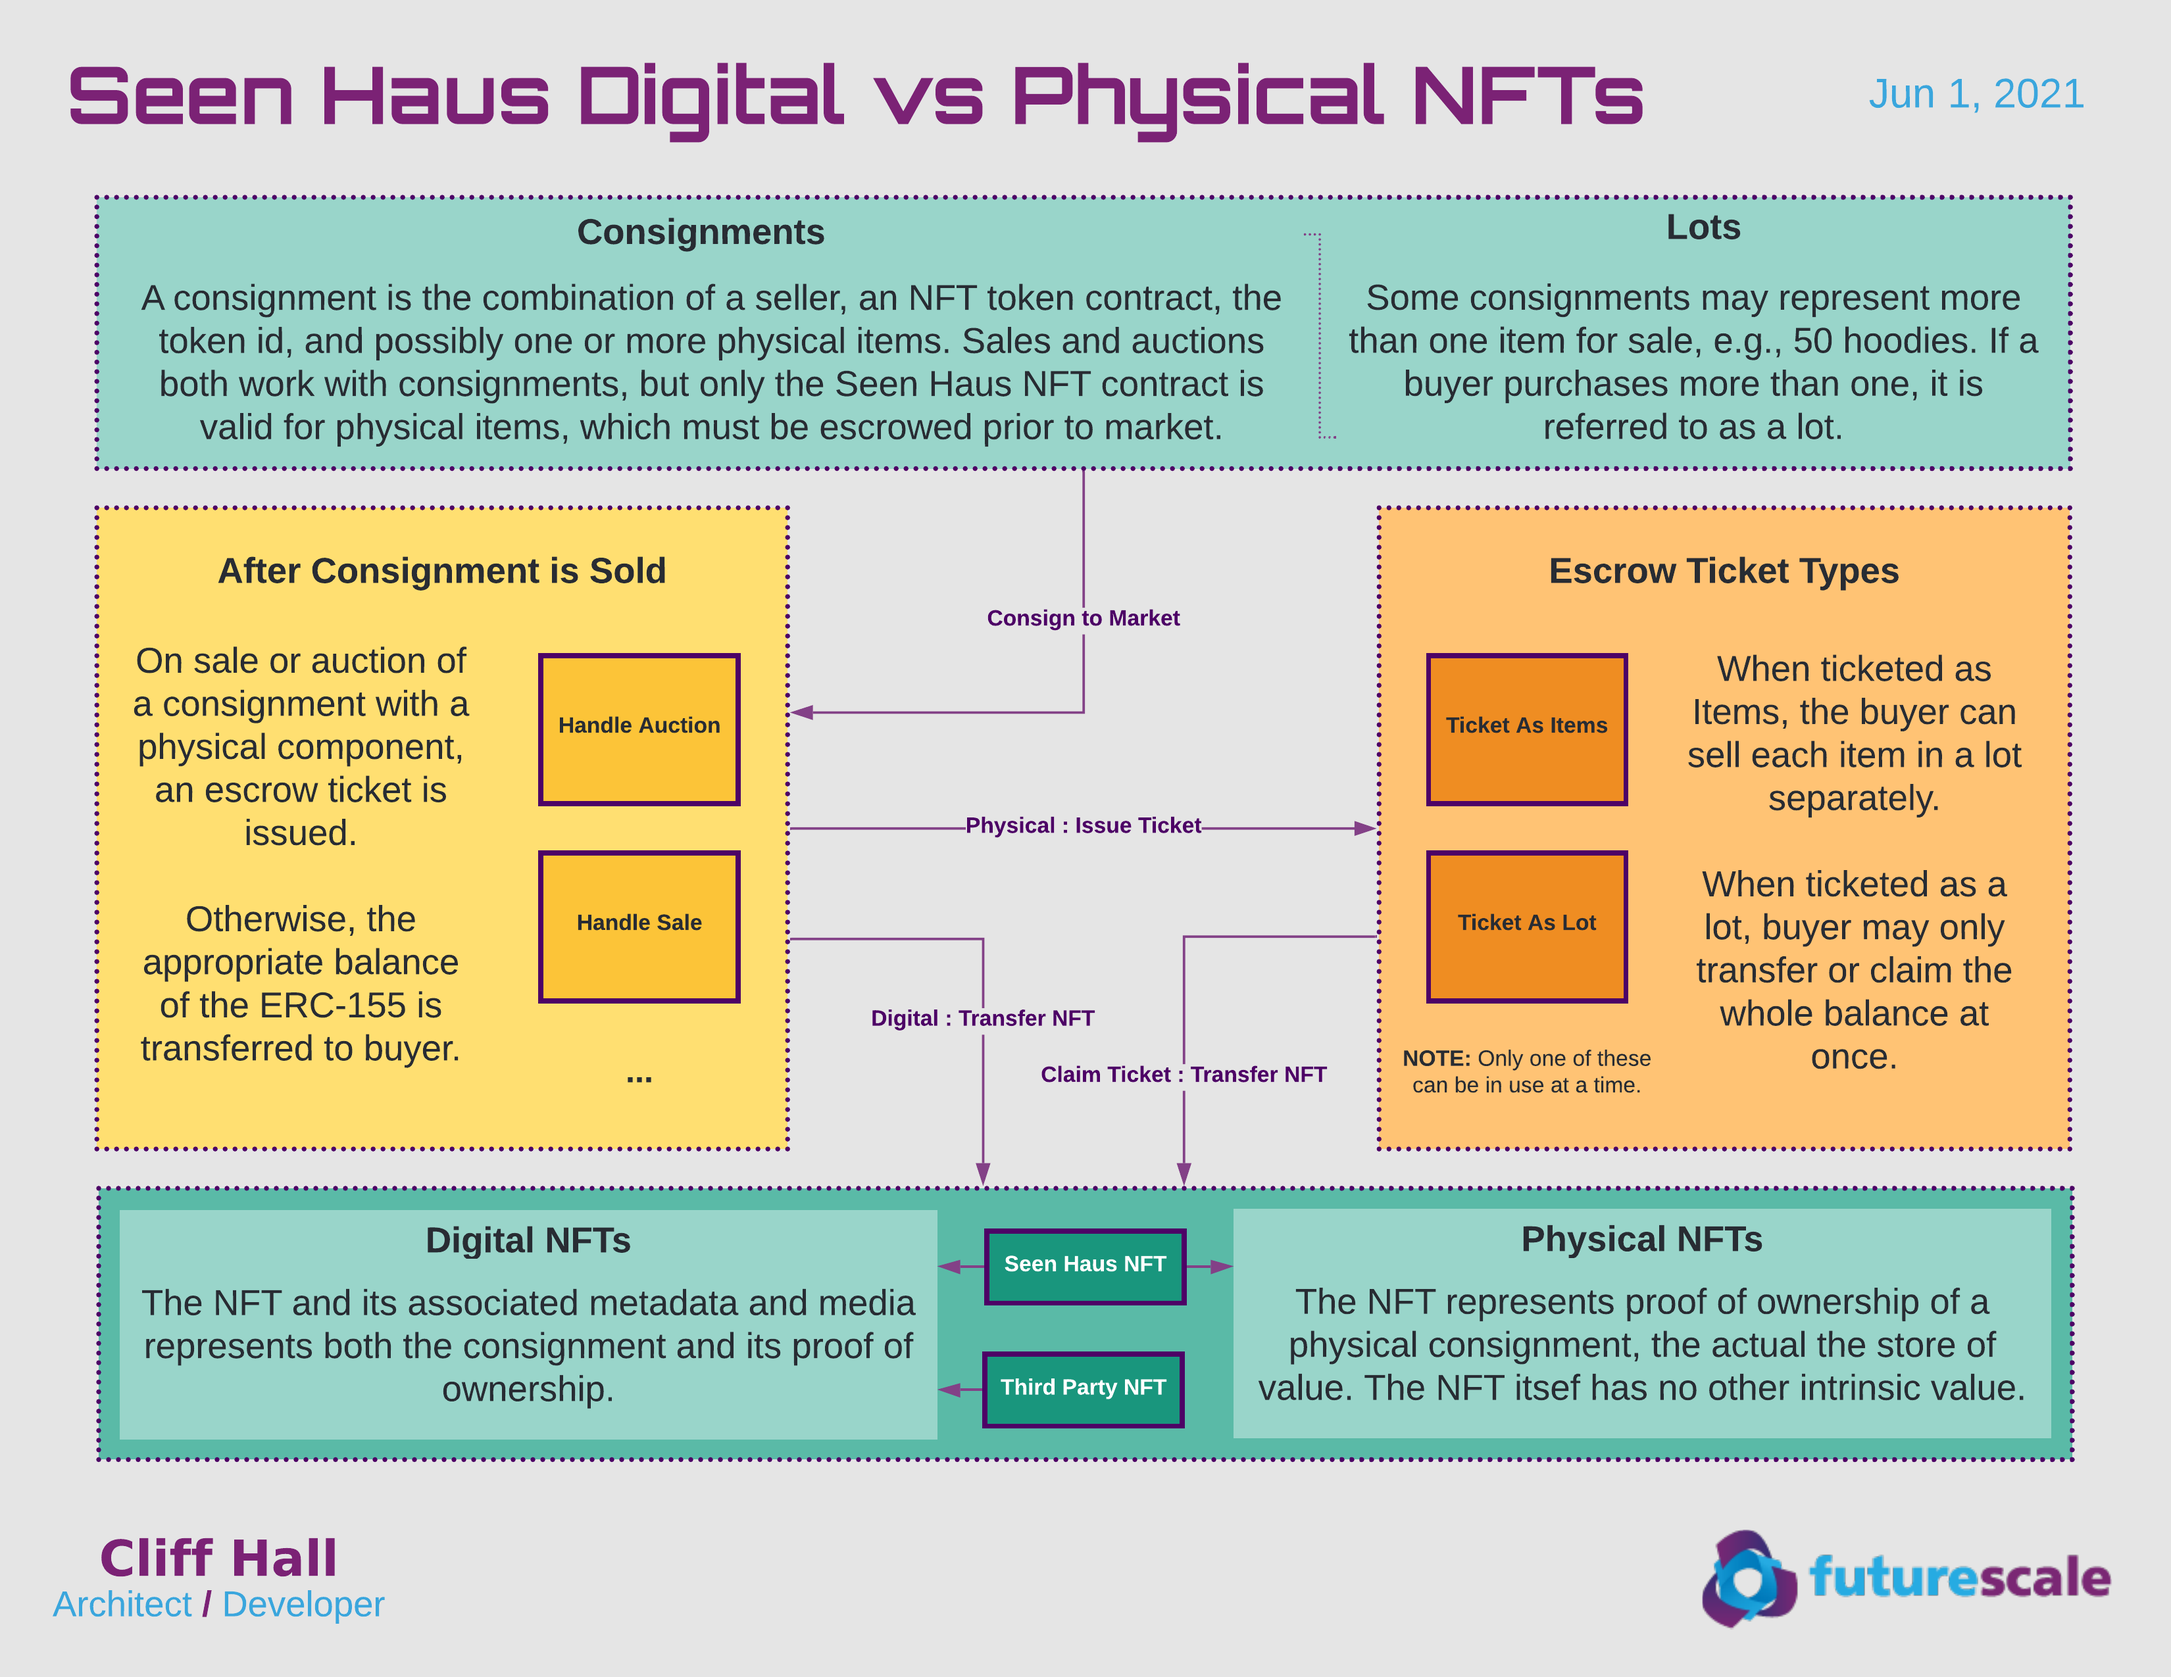
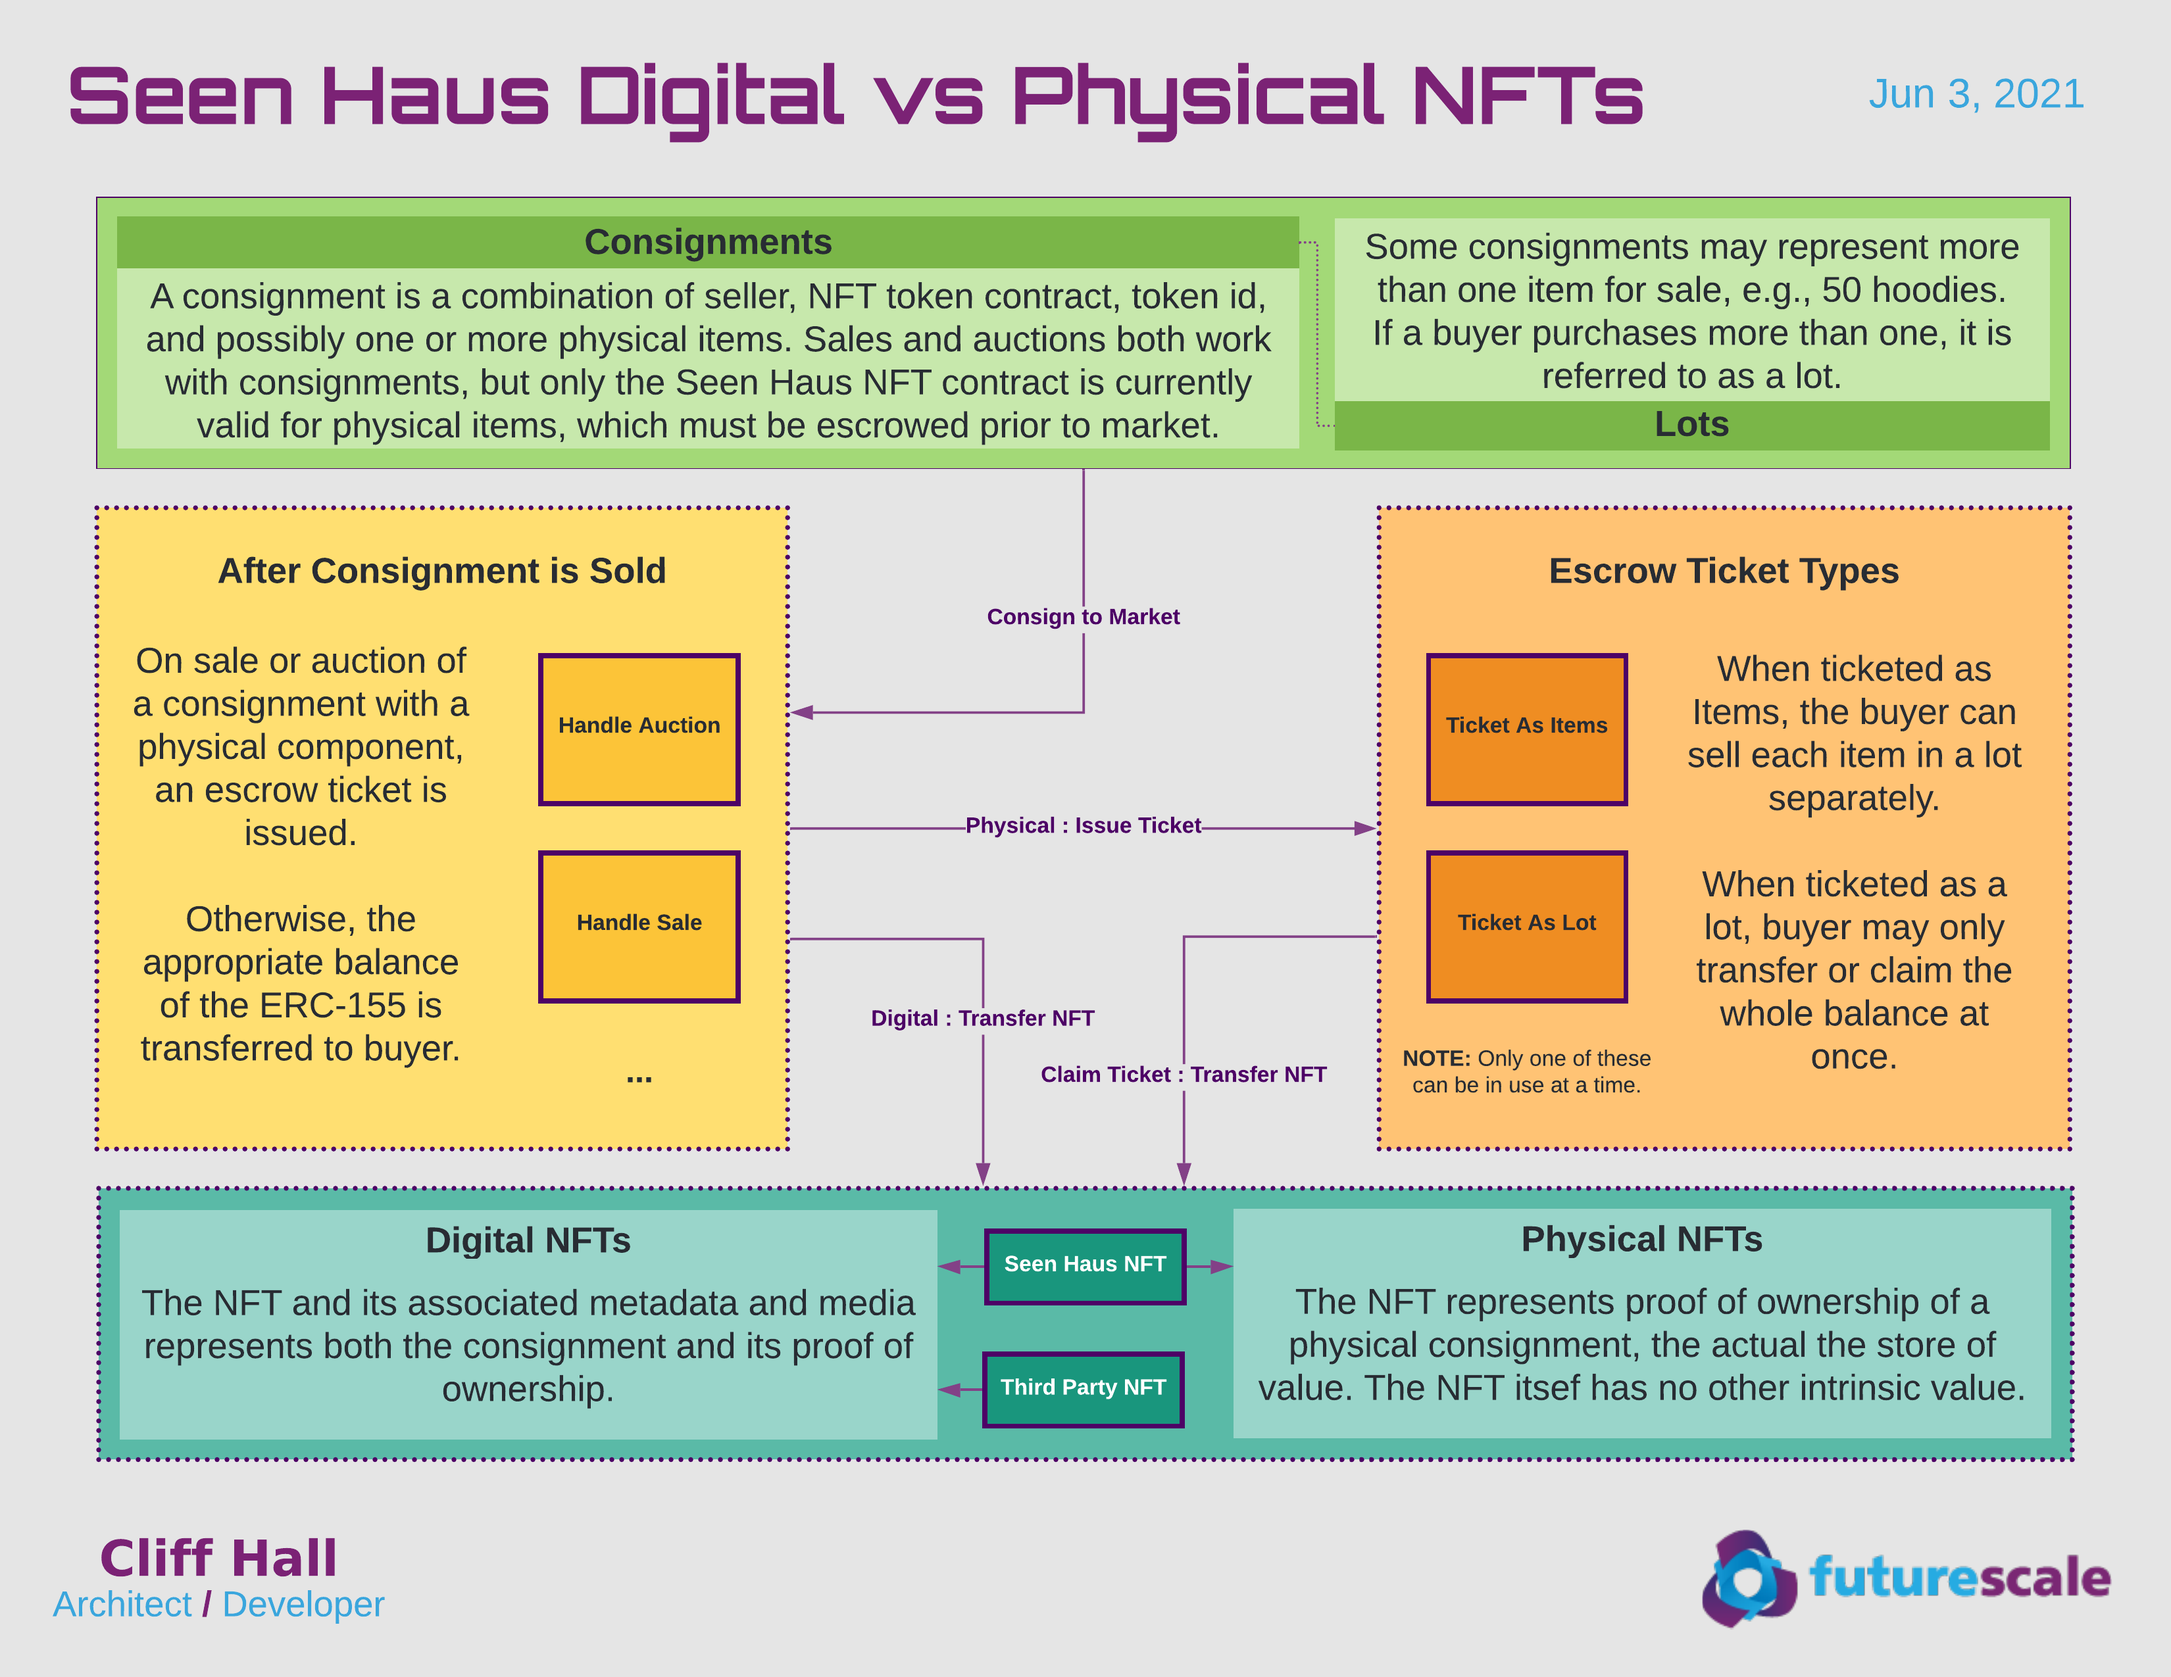
Updated README.md   - Added new Contract Access Control diagram   - Updated Digital vs Physical diagram

Changed region(s): [[0.0312, 0.0929, 0.9676, 0.2788]]

diff --git a/README.md b/README.md
@@ -5,12 +5,14 @@
   - Old contracts that won't be changed or reused are kept in contracts_legacy folder for reference.
   - Currently, creating more diagrams and unit tests.
 
-## Contracts Overview
+## Overview
 ![overview](docs/images/SeenHausContractsOverview.png)
 
-## Digital vs Physical NFTs
-![digital-vs-physical-nfts](docs/images/SeenHausDigitalVsPhysicalNFTs.png)
+## Access Control
+![access-control](docs/images/SeenHausContractAccessControl.png)
 
+## Digital vs Physical
+![digital-vs-physical-nfts](docs/images/SeenHausDigitalVsPhysicalNFTs.png)
 
 # Developer Setup
 ## Prerequisites
